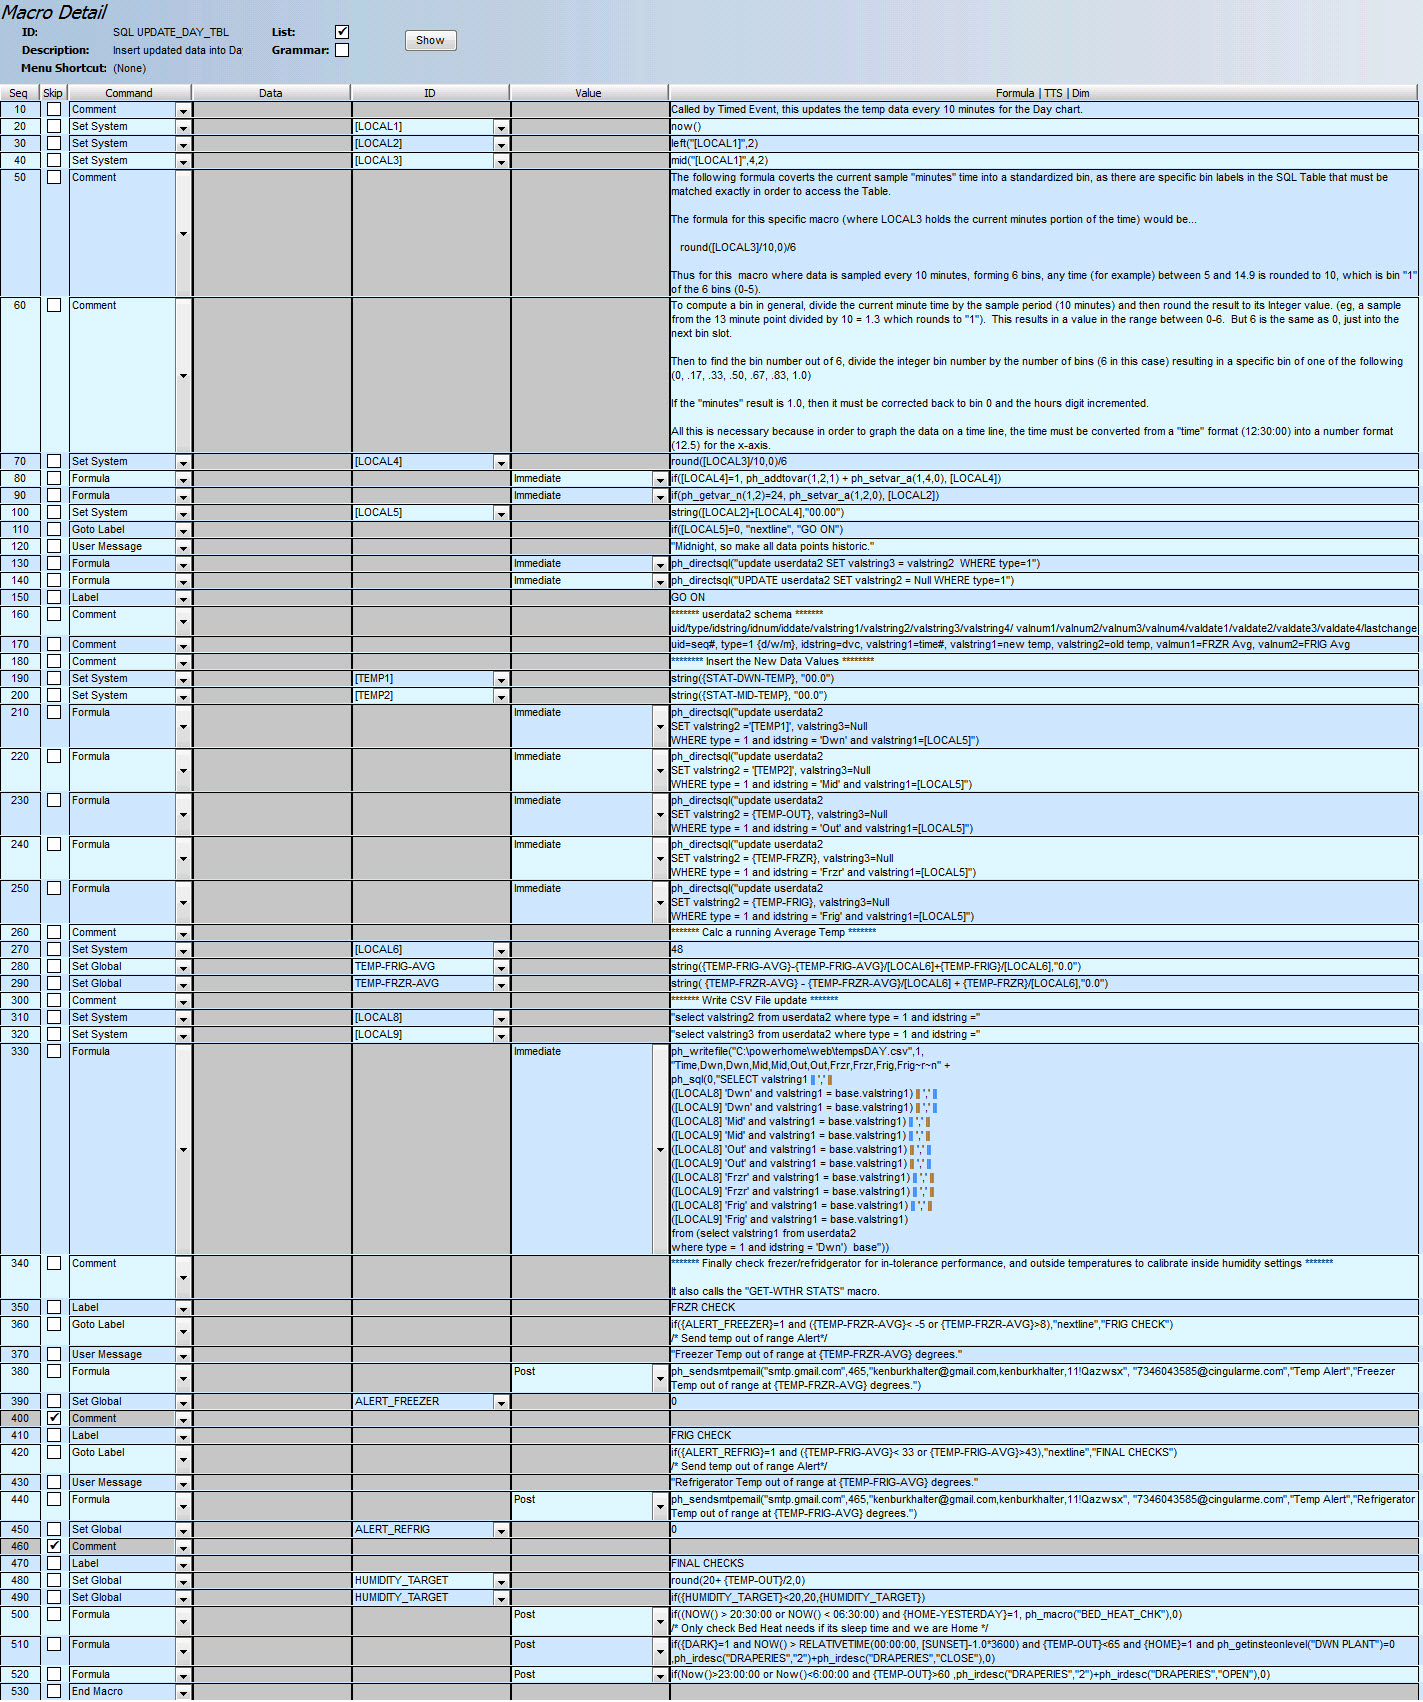
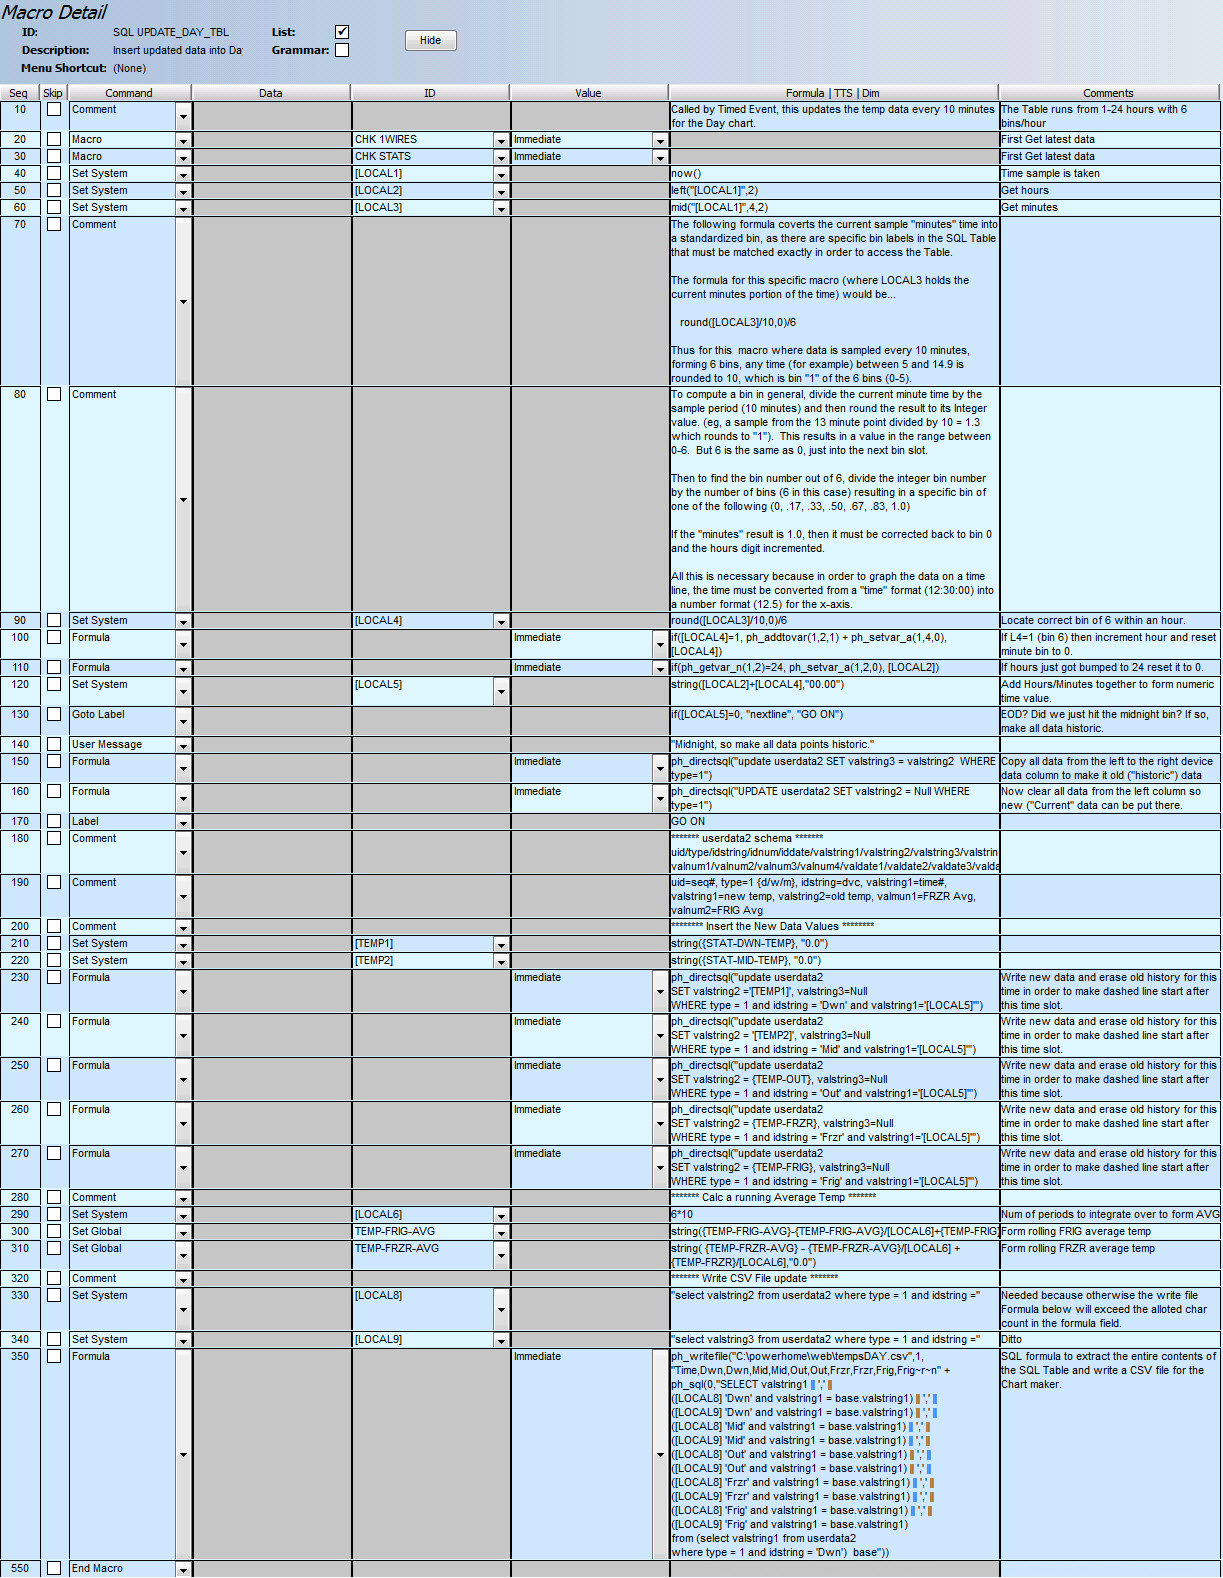
This is a desperate attempt to get the Chart help to you
I trashed my hub cache and downloaded a new one fro hub central.  The
Chart doc was a MESS.  Full of junk codes.  Took me an hour to fix.
This looks good here.  Hope it gets there the same!

diff --git a/html/FAQs-Charting from PH.htm b/html/FAQs-Charting from PH.htm
@@ -3,17 +3,15 @@
 <head>
 <meta http-equiv="Content-Type" content="text/html; charset=UTF-8">
 <link rel="stylesheet" type="text/css" href="ph-help.css">
-<title>Charting from PH</title>
+<title>FAQ: Charting From PH</title>
 </head>
+
 <body>
-<div class=ph1>
-FAQ: 
-Charting from PH </div>
+<div class=ph1>FAQ: Charting From PH </div>
 
 <div class=ph2>Knowledge Notes </div>
-
 <div class=ph3>
-  <p><BR>
+<BR>
     While PowerHome does not incorporate "native" charting capability, it is possible to chart just about any data that PH can access, using the following Google Charts extraordinarily capable API. <BR>
     <BR>
     Introductory documentation is available here... <BR>
@@ -68,10 +66,9 @@ Charting from PH </div>
     </p>
 
   <p>This CSV Day file contains specific DAY CHART data and timing information. There will be similar csv files for the WEEK and MONTH charts. </p>
-  <p>The PH "SQL UPDATE_DAY_TBL" macro produces the data for this CSV file. Whenever the chart viewing web page "chartTemps.html" is opened, it  calls the Google charting API functions to chart the data from this CSV file.</p>
-  <p>The  "SQL UPDATE_DAY_TBL" PH Macro is called from a Timed Event that runs every 10 minutes, thus populating 6 time bins per hour, over a 24 hour day. This macro looks like this...</p>
- <IMG alt="Update Day Tbl" src ="images/Chart-Update DayTbl.jpg" ><BR><br>
-
+ 
+  <p>The PH "SQL UPDATE_DAY_TBL" macro produces the data for this CSV file. Whenever the chart viewing web page "chartTemps.html" is opened, it  calls the Google charting API functions to chart the data from this CSV file. This  Macro is called from a Timed Event that runs every 10 minutes, thus populating 6 time bins per hour, over a 24 hour day. The macro looks like this...</p>
+  <IMG alt="Update Day Tbl" src ="images/Chart-Update DayTbl.jpg" ><BR><br>
   All of the collected data is stored in the PowrHome "userData2" database Table, and all of the database management is done using PowerHome standard SQL functions See this PH Forum link for information on that table (search for "userdata2" to find the info in this large Thread). It is on page 1.. <BR>
   <BR>&nbsp;&nbsp;&nbsp;
   <A href="http://www.power-home.com/forum/forum_posts.asp?TID=2723&amp;KW=userdata2" target="_blank" 
@@ -119,23 +116,21 @@ Charting from PH </div>
     <LI>No other columns are used for Charting data but valnum1 and valnum2 are used as a ring buffer to compute long term average temps for the Frig and Frzr.  This need will disappear with the release of PH 2.1.5c which will have averaging built into the Analog I/O Devices support.</LI>
   </ul>
  
-  <p>In addition to these these files, an additional Macro is also useful. It is the "SQL CREATE_DAY_TABLE" which makes sure the userData2 db is cleared out before use, and then creates a set of standard data capture time bins, for use by the "SQL CREATE_DAY_TABLE" routine. NOTE: The <EM>very first formula in this macro (normally disabled) can be enabled to assure an empty database Table. Normally it is disabled to allow just the DAY entries to be rerset, in the event the db is used for multiple charts. This table covers 24 hours and has 6-bins (10 min slots) within each hour. The DAY data is all keyed as Type-1</EM></p>
-  <UL>
-  <p><BR>
-    <IMG alt="createDAY Tbl" src ="images/chart.createTbl.jpg" width=1306 height=997 ><BR>
-    
- 
-    <BR>
-  ============================ 
-   <BR>
+  <p>In addition to these these files, an additional Macro is also useful. It is the "SQL CREATE_DAY_TABLE" which makes sure the userData2 db is cleared out before use, and then creates a set of standard data capture time bins, for use by the "SQL CREATE_DAY_TABLE" routine. <br>
+    <br>
+    NOTE: The <EM>very first formula in this macro (normally disabled) can be enabled to assure an empty database Table. Normally it is disabled to allow just the DAY entries to be reset, in the event the db is used for multiple charts. This table covers 24 hours and has 6-bins (10 min slots) within each hour. The DAY data is all keyed as Type-1</EM><br>
+
+ <BR><img src="images/chart.createDayTbl.jpg" alt="CREATE Dat Tbl"> <BR>
+ **********************************************<BR>
+ <BR>
   OK. All the background stuff is defined, how do you use this? <BR>
   <BR>
 1. Create Timed Events to capture your Chart data over the desired period (Day/Week/Month/etc)</p>
-  <p><IMG alt="Timed Events" src  ="../../../../../../Desktop/PH Help Projects/Charting FAQ/TimedEvents.jpg" ><br>
+  <p><img src="images/Chart.TimEvnt.jpg" alt="Timed Event" width="1244" height="62"><br>
     <br>
     2. Create a web link from your Web Center page to <STRONG><EM>chartTemps.html</EM></STRONG> ! 
     
-    This will create the actual chart(s) when you click on the web page. <br>
-  </p></UL></blockquote></blockquote></div>
+    This will create the actual chart(s) when you click on the web page. <br>  
+  </blockquote></blockquote></div>
 </body>
 </html>
